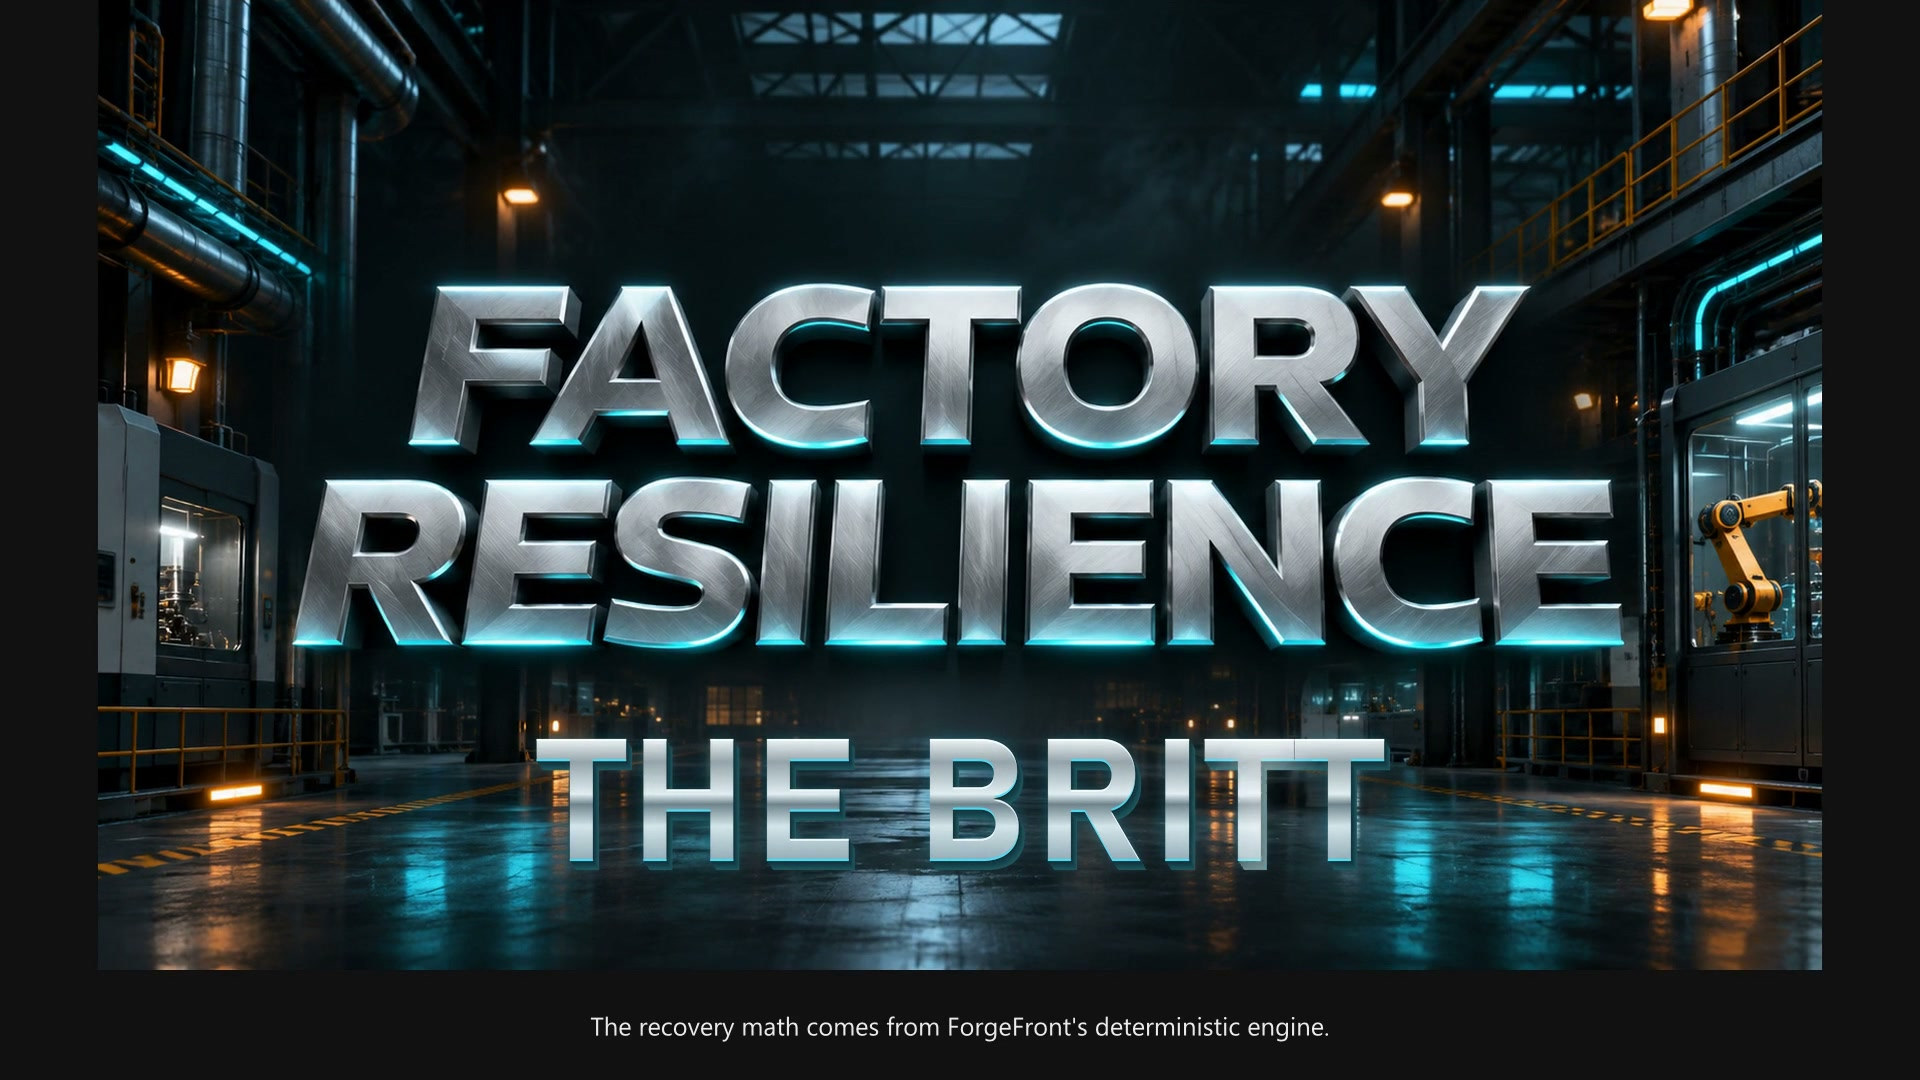
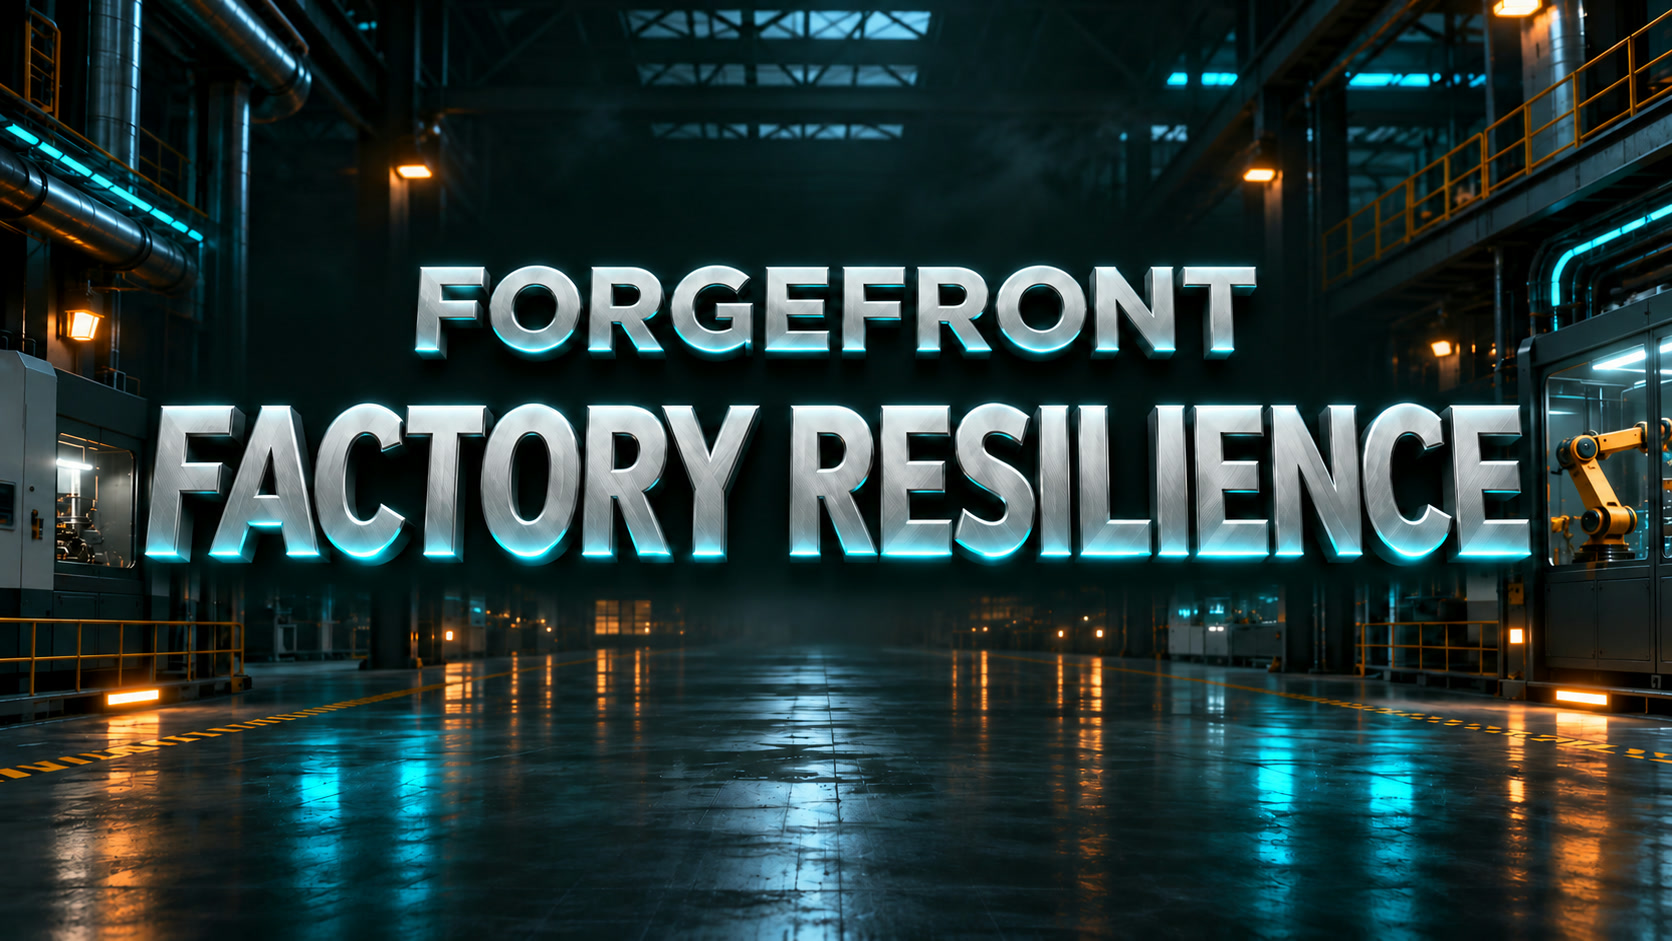
Give The Britt a dedicated judge-facing showcase

diff --git a/README.md b/README.md
@@ -53,6 +53,25 @@ Factory Resilience directly answers both event themes: **Build for Your World**,
 
 For the most repeatable full judging path, select **Sample** on the Incident screen. To inspect the genuine model integration, run the live **Meta Muse Spark Open** route. Both modes are labeled in the interface and never masquerade as one another.
 
+## Meet The Britt: advanced AI for factory recovery
+
+<p align="center">
+  <img src="assets/showcase/current/the-britt-agent.jpg" width="100%" alt="ForgeFront Systems — The Britt, advanced factory resilience agent" />
+</p>
+
+**The Britt is the source-bound resilience agent at the center of Factory Resilience.** It does more than summarize an incident: it investigates the live recovery snapshot, connects material and receiving evidence to affected jobs and compatible machines, challenges unsupported claims, and turns the verified situation into an explainable recovery proposal for a human decision-maker.
+
+Its advanced design comes from combining Meta models with strict operational boundaries:
+
+- **Meta Muse Spark Open performs the investigation.** Running on Baseten, it can use five narrowly scoped, read-only factory tools to retrieve the certificate, receipt, inventory, job and capacity records needed for the incident.
+- **Every numerical claim is source-checked.** A claim is accepted only when its document, record, field, value and unit agree with the underlying evidence. Fluent language cannot override a mismatched fact.
+- **Meta Muse Wonder supports deeper recovery reasoning.** Through the Meta Model API, it can draft advisory recovery logic and structured tasks; the application rejects unavailable, malformed or unsupported output instead of treating it as a plan.
+- **The model reasons; the engine calculates.** Stock coverage, machine compatibility, capacity, completion time and cost come from deterministic code, so The Britt cannot improvise the operational math.
+- **Authority is snapshot-bound and human.** The Britt can recommend and explain, but it cannot release work. A person approves the current plan, and a changed factory state invalidates that prior authority.
+- **The system fails closed.** Model identity, tool access, response structure and evidence claims are validated before results enter the workflow. Errors remain visible; they are not silently converted into a successful answer.
+
+That separation—**Meta intelligence for investigation and reasoning, deterministic software for operational truth, and a human for authorization**—is what makes The Britt suitable for high-consequence manufacturing decisions.
+
 ## What drives The Britt—and what drives the math
 
 | Responsibility | System of record | Why it matters |
